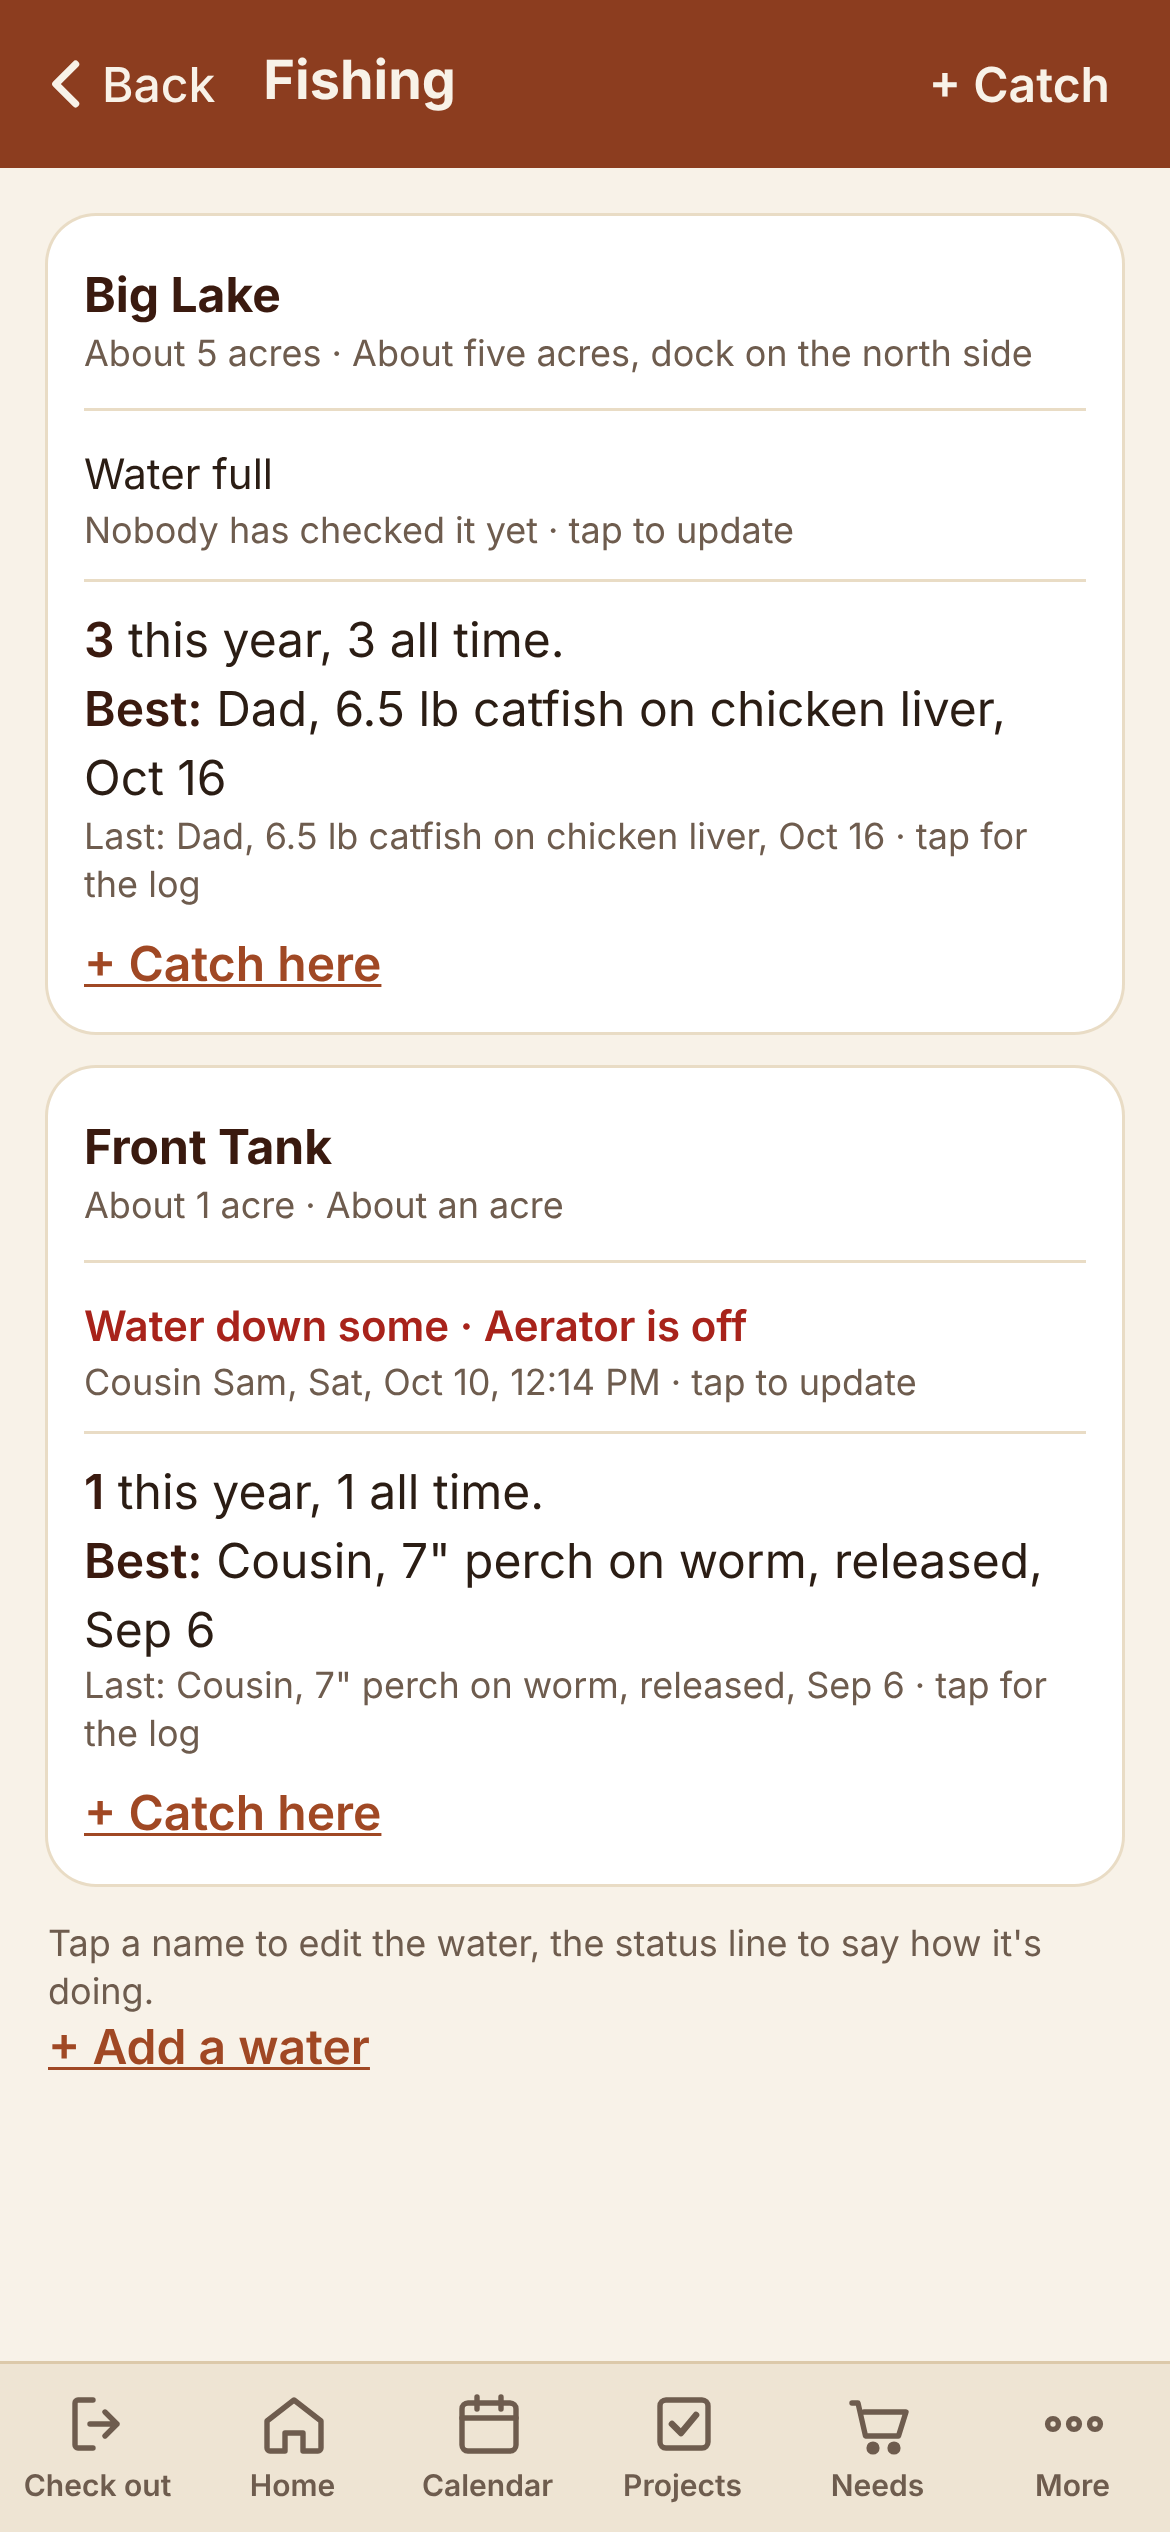
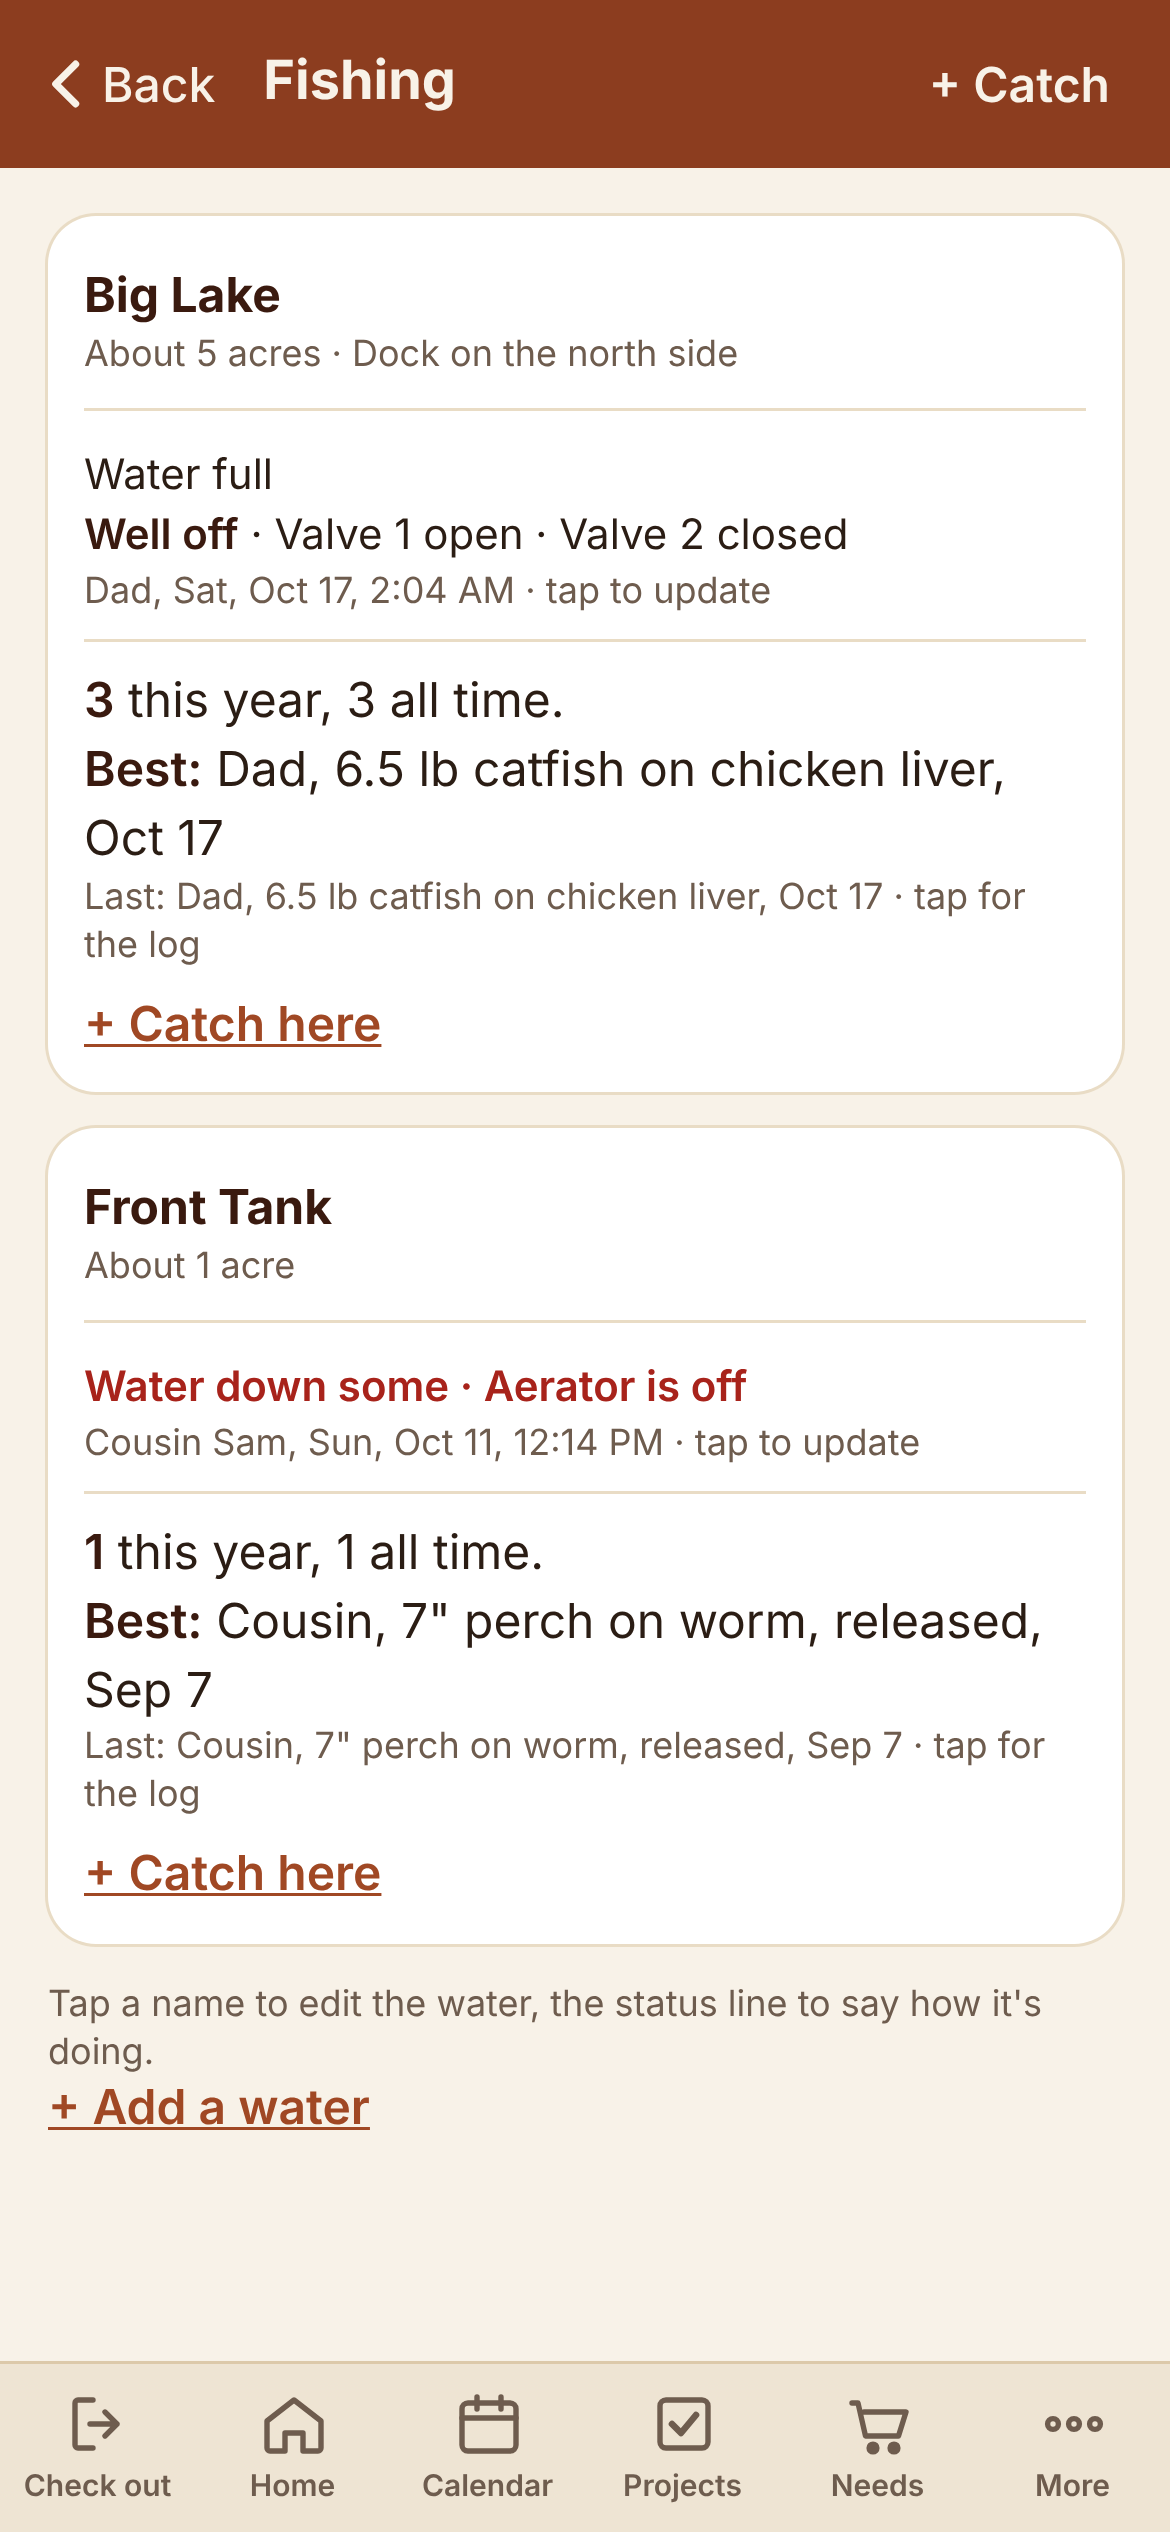
Big Lake well: running or off, two named valves open or closed
Claude-Session: https://claude.ai/code/session_01RjS6QfguHLSCFchmoCiRhY

diff --git a/src/screens/Fishing.tsx b/src/screens/Fishing.tsx
@@ -5,7 +5,7 @@ import { Note } from '../components/Note'
 import { Photo, PhotoField } from '../components/PhotoField'
 import { Screen } from '../components/Screen'
 import { Sheet } from '../components/Sheet'
-import type { CatchRow, PinRow, WaterLevel } from '../lib/database.types'
+import type { CatchRow, PinRow, Valve, WaterLevel } from '../lib/database.types'
 import { fmtDate, fmtDateTime, todayISO } from '../lib/dates'
 import { friendlyError } from '../lib/errors'
 import { bestCatch, catchLabel, FISH, loadCatches, loadWaters, WATER_LEVEL } from '../lib/fishing'
@@ -72,6 +72,12 @@ export function Fishing() {
                 </button>
                 <button type="button" onClick={() => setStatus(w)} aria-label={`${w.name} status`} className="tap mt-2 block w-full border-t border-tan-200 pt-2 text-left">
                   <span className={`text-sm ${bad ? 'font-semibold text-alert' : 'text-ink'}`}>Water {WATER_LEVEL[w.water_level].toLowerCase()}{w.condition ? ` · ${w.condition}` : ''}</span>
+                  {w.has_well && (
+                    <span className="block text-sm text-ink">
+                      <span className="font-semibold text-clay-950">Well {w.well_on ? 'running' : 'off'}</span>
+                      {(w.valves ?? []).map((v) => <span key={v.name}> · {v.name} {v.open ? 'open' : 'closed'}</span>)}
+                    </span>
+                  )}
                   {w.photo_path && <Photo path={w.photo_path} className="mt-1 h-20 w-20" />}
                   <span className="block text-xs text-ink-muted">{w.status_at ? `${nameOf(w.status_by)}, ${fmtDateTime(w.status_at)}` : 'Nobody has checked it yet'} · tap to update</span>
                 </button>
@@ -229,6 +235,9 @@ function CatchForm({ waters, water, onDone }: { waters: PinRow[]; water: PinRow 
 function WaterStatusForm({ water, onDone }: { water: PinRow; onDone: () => Promise<void> }) {
   const me = useMe()
   const [level, setLevel] = useState<WaterLevel>(water.water_level)
+  const [hasWell, setHasWell] = useState(water.has_well)
+  const [wellOn, setWellOn] = useState(water.well_on)
+  const [valves, setValves] = useState<Valve[]>(water.valves ?? [])
   const [condition, setCondition] = useState(water.condition ?? '')
   const [photo, setPhoto] = useState<File | null>(null)
   const [existingPhoto, setExistingPhoto] = useState<string | null>(water.photo_path)
@@ -240,7 +249,11 @@ function WaterStatusForm({ water, onDone }: { water: PinRow; onDone: () => Promi
     try {
       const photo_path = photo ? await uploadPhoto(photo) : existingPhoto
       if (water.photo_path && water.photo_path !== photo_path) void removePhoto(water.photo_path)
-      const { error } = await supabase.from('pins').update({ water_level: level, condition: condition.trim() || null, photo_path, status_by: me.member_id, status_at: new Date().toISOString() }).eq('id', water.id)
+      const { error } = await supabase.from('pins').update({
+        water_level: level, condition: condition.trim() || null, photo_path,
+        has_well: hasWell, well_on: hasWell && wellOn, valves: hasWell ? valves.filter((v) => v.name.trim()) : [],
+        status_by: me.member_id, status_at: new Date().toISOString(),
+      }).eq('id', water.id)
       if (error) throw error
       await onDone()
     } catch (err) {
@@ -257,6 +270,29 @@ function WaterStatusForm({ water, onDone }: { water: PinRow; onDone: () => Promi
         <div className="flex gap-2">
           {(['full', 'down', 'low'] as WaterLevel[]).map((l) => <button key={l} type="button" onClick={() => setLevel(l)} aria-pressed={level === l} className={chip(level === l)}>{WATER_LEVEL[l]}</button>)}
         </div>
+      </div>
+      <div>
+        <label className="tap flex items-center gap-3">
+          <input type="checkbox" checked={hasWell} onChange={(e) => setHasWell(e.target.checked)} className="h-5 w-5 accent-clay-900" />
+          <span className="text-sm font-semibold text-clay-900">Has a well</span>
+        </label>
+        {hasWell && (
+          <div className="mt-2 space-y-2">
+            <div className="flex gap-2">
+              <button type="button" onClick={() => setWellOn(true)} aria-pressed={wellOn} className={chip(wellOn)}>Well running</button>
+              <button type="button" onClick={() => setWellOn(false)} aria-pressed={!wellOn} className={chip(!wellOn)}>Well off</button>
+            </div>
+            {valves.map((v, i) => (
+              <div key={i} className="flex items-center gap-2">
+                <div className="min-w-0 flex-1"><TextInput name={`valve${i}`} aria-label={`Valve ${i + 1} name`} value={v.name} onChange={(e) => setValves((vs) => vs.map((x, j) => (j === i ? { ...x, name: e.target.value } : x)))} placeholder="Valve name" maxLength={40} /></div>
+                <button type="button" onClick={() => setValves((vs) => vs.map((x, j) => (j === i ? { ...x, open: true } : x)))} aria-pressed={v.open} className={chip(v.open)}>Open</button>
+                <button type="button" onClick={() => setValves((vs) => vs.map((x, j) => (j === i ? { ...x, open: false } : x)))} aria-pressed={!v.open} className={chip(!v.open)}>Closed</button>
+                <button type="button" aria-label={`Remove ${v.name || 'valve'}`} onClick={() => setValves((vs) => vs.filter((_, j) => j !== i))} className="tap px-1 text-ink-muted">✕</button>
+              </div>
+            ))}
+            <Button type="button" variant="ghost" onClick={() => setValves((vs) => [...vs, { name: `Valve ${vs.length + 1}`, open: false }])}>+ Add a valve</Button>
+          </div>
+        )}
       </div>
       <TextArea label="Anything to know" name="waterCondition" value={condition} onChange={(e) => setCondition(e.target.value)} placeholder="Aerator off, moss on the east end, dock board loose…" rows={2} maxLength={300} />
       <PhotoField file={photo} onFile={setPhoto} existing={existingPhoto} onClear={() => setExistingPhoto(null)} label="Photo of it (optional)" />

diff --git a/src/lib/demo/seed.ts b/src/lib/demo/seed.ts
@@ -46,13 +46,13 @@ export function seedDb(): Record<string, Row[]> {
     ['contacts', 'Propane company', 'Gonzales Propane (830) 555-0142', 1], ['contacts', 'Feed store', 'Smiley Feed & Supply (830) 555-0170', 2], ['contacts', 'Electric co-op outage line', 'GVEC (800) 223-4832', 3], ['contacts', 'Neighbor', 'Hank at the next gate, (830) 555-0199. Has a key.', 4], ['contacts', 'Cleaning (Elvira)', '(830) 555-0123. $110 on the counter or Cash App.', 5],
   ].map(([section, label, value, sort_order], i) => ({ id: `in${i + 1}`, section, label, value, sort_order, ...base(60) }))
   const P = (n: number) => `00000000-0000-4000-8000-0000000000b${n}`
-  const blind = (n: number, name: string, extra: Row) => ({ id: P(n), type: 'stand', name, notes: null, lat: null, lng: null, stand_type: 'box_blind', has_feeder: true, fill_interval_days: null, days_per_bag: 5, motor_status: 'working', lock_status: 'locked', chairs: 2, has_camera: false, camera_status: 'working', condition: null, status_by: null, status_at: null, water_level: 'full', acres: null, photo_path: null, ...base(60), ...extra })
+  const blind = (n: number, name: string, extra: Row) => ({ id: P(n), type: 'stand', name, notes: null, lat: null, lng: null, stand_type: 'box_blind', has_feeder: true, fill_interval_days: null, days_per_bag: 5, motor_status: 'working', lock_status: 'locked', chairs: 2, has_camera: false, camera_status: 'working', condition: null, status_by: null, status_at: null, water_level: 'full', acres: null, photo_path: null, has_well: false, well_on: false, valves: [], ...base(60), ...extra })
   const pins: Row[] = [
     blind(1, 'Tank Blind', { notes: 'By the stock tank', motor_status: 'down', status_by: M(3), status_at: ts(2), has_camera: true }),
     blind(2, 'Brants Blind', { has_camera: true, camera_status: 'batteries', status_by: M(4), status_at: ts(5), chairs: 1 }),
     blind(3, 'Fence Blind', { lock_status: 'none', condition: 'Window latch is loose', status_by: M(1), status_at: ts(9), lat: 29.2290, lng: -97.6560 }),
     { ...blind(4, 'Front Tank', {}), type: 'water', stand_type: null, has_feeder: false, days_per_bag: null, lock_status: 'none', chairs: 0, acres: 1, notes: null, water_level: 'down', condition: 'Aerator is off', status_by: M(4), status_at: ts(6) },
-    { ...blind(5, 'Big Lake', {}), type: 'water', stand_type: null, has_feeder: false, days_per_bag: null, lock_status: 'none', chairs: 0, acres: 5, notes: 'Dock on the north side' },
+    { ...blind(5, 'Big Lake', {}), type: 'water', stand_type: null, has_feeder: false, days_per_bag: null, lock_status: 'none', chairs: 0, acres: 5, notes: 'Dock on the north side', has_well: true, well_on: true, valves: [{ name: 'Valve 1', open: true }, { name: 'Valve 2', open: false }], status_by: M(3), status_at: ts(2) },
   ]
   const catches = [
     { id: 'ca1', member_id: M(1), pin_id: P(5), caught_on: addDays(today, -4), species: 'Bass', weight_lb: 4, length_in: null, bait: 'green worm', notes: 'Off the dock at sunset', released: true, photo_path: null, ...base(4) },

diff --git a/src/lib/demo/mockClient.ts b/src/lib/demo/mockClient.ts
@@ -187,7 +187,7 @@ class Query implements PromiseLike<Result<unknown>> {
           catches: { pin_id: null, caught_on: now.slice(0, 10), weight_lb: null, length_in: null, bait: null, notes: null, released: false, photo_path: null },
           assets: { kind: 'other', status: 'good', note: null, sort_order: 0 },
           info_items: { value: '', sort_order: 0 },
-          pins: { notes: null, lat: null, lng: null, stand_type: null, has_feeder: false, fill_interval_days: null, days_per_bag: null, motor_status: 'working', lock_status: 'none', chairs: 0, has_camera: false, camera_status: 'working', condition: null, status_by: null, status_at: null, water_level: 'full', acres: null, photo_path: null },
+          pins: { notes: null, lat: null, lng: null, stand_type: null, has_feeder: false, fill_interval_days: null, days_per_bag: null, motor_status: 'working', lock_status: 'none', chairs: 0, has_camera: false, camera_status: 'working', condition: null, status_by: null, status_at: null, water_level: 'full', acres: null, photo_path: null, has_well: false, well_on: false, valves: [] },
           events: { notes: null, kind: 'inclusive' },
           event_attendees: { note: null, headcount: 1 },
           checkouts: { event_id: null, left_at: now, items: [], all_done: false, notes: null },

diff --git a/src/lib/database.types.ts b/src/lib/database.types.ts
@@ -255,7 +255,8 @@ export type MotorStatus = 'working' | 'down'
 export type LockStatus = 'none' | 'locked' | 'unlocked'
 export type CameraStatus = 'working' | 'batteries' | 'down'
 export type WaterLevel = 'full' | 'down' | 'low'
-export type PinStatusPatch = { water_level?: WaterLevel; acres?: number | null; photo_path?: string | null; motor_status?: MotorStatus; lock_status?: LockStatus; chairs?: number; has_camera?: boolean; camera_status?: CameraStatus; condition?: string | null; status_by?: string | null; status_at?: string | null }
+export type Valve = { name: string; open: boolean }
+export type PinStatusPatch = { water_level?: WaterLevel; acres?: number | null; photo_path?: string | null; has_well?: boolean; well_on?: boolean; valves?: Valve[]; motor_status?: MotorStatus; lock_status?: LockStatus; chairs?: number; has_camera?: boolean; camera_status?: CameraStatus; condition?: string | null; status_by?: string | null; status_at?: string | null }
 
 export type PinRow = {
   id: string
@@ -279,6 +280,9 @@ export type PinRow = {
   water_level: WaterLevel
   acres: number | null
   photo_path: string | null
+  has_well: boolean
+  well_on: boolean
+  valves: Valve[]
   created_by: string | null
   created_at: string
   updated_at: string

diff --git a/README.md b/README.md
@@ -44,7 +44,7 @@ Gonzales County, Texas, just south of Smiley. Gonzales CAD parcel **8554**, Abst
 - **Equipment**: house, trailer, barn, truck, tractor, ATVs, haul trailer with Good / Needs attention / Down, a note, and the projects and needs tagged to each. Anyone can add a machine; admin removes. Needs and projects pick a place or machine from this list.
 - **Blinds** are upkeep cards, not a sign-up: feeder with bag-based run-out and Filled it, motor working or down, lock, chairs, trail cam and its state, a condition line, who last checked, and what's been killed there. Anyone adds or edits a blind; admin removes. Home lists the ones that need a look.
 - **Trips**: "At the ranch now" or "Next trip" on Home. Headcount when you say you're in, shown against the number of beds.
-- **Fishing**: Front Tank and Big Lake as waters with level, condition, and a catch log (who, species, weight, bait, photo). Best fish and counts per water.
+- **Fishing**: Front Tank and Big Lake as waters with level, condition, well and valves (Big Lake has a well with two), and a catch log (who, species, weight, bait, photo). Best fish and counts per water.
 - **Photos** (one per harvest, catch, note, project update, or blind/water condition): shrunk on the phone, kept in one Storage bucket, and cleaned by the app itself (older than a year or past 250 gets deleted). Not an album.
 - **Colorblind-safe trips**: "Come join" has a plus, "Just them" has a lock and a striped bar, so the two never rely on green vs orange alone.
 - **Hunting seasons** (South Zone, Gonzales County) show as a one-line ribbon above the calendar and on Home: in season now, and next. Calendar days only show trips. Admin edits them under More > Hunting seasons; 2026-27 is seeded from the TPWD Outdoor Annual. Check the county page there before you hunt.

diff --git a/SPEC.md b/SPEC.md
@@ -54,6 +54,7 @@ A shared app for one family hunting property. It answers four questions for ever
 ### 2e. Fishing
 - Front Tank (about 1 acre) and Big Lake (about 5 acres) are waters; anyone can add one. Each card shows water level (Full / Down some / Low), a condition line and photo, who last checked, this year's and all-time catch counts, the best fish, and the last one.
 - Catch log: who, date, which water, species, weight, length, bait, let it go, notes, photo.
+- A water can have a well with named valves (Big Lake: a well, two valves). Status shows well running or off and each valve open or closed, with who last checked.
 
 ### 2f. Photos
 - One optional photo on a harvest, a catch, a property note, a project update (comment), and a blind's or water's condition. Not on needs, projects themselves, or the calendar.
